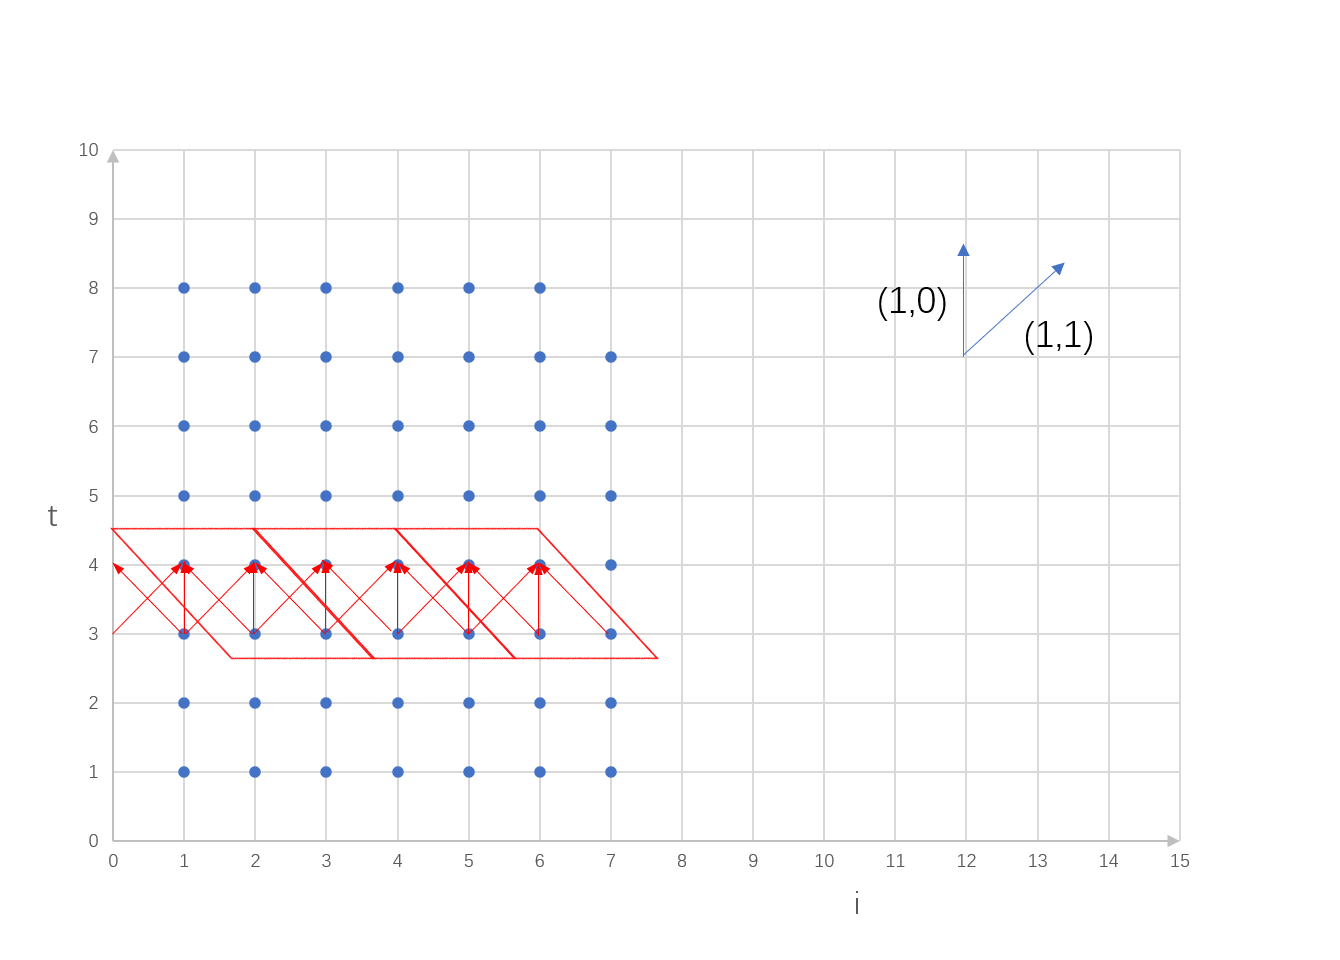
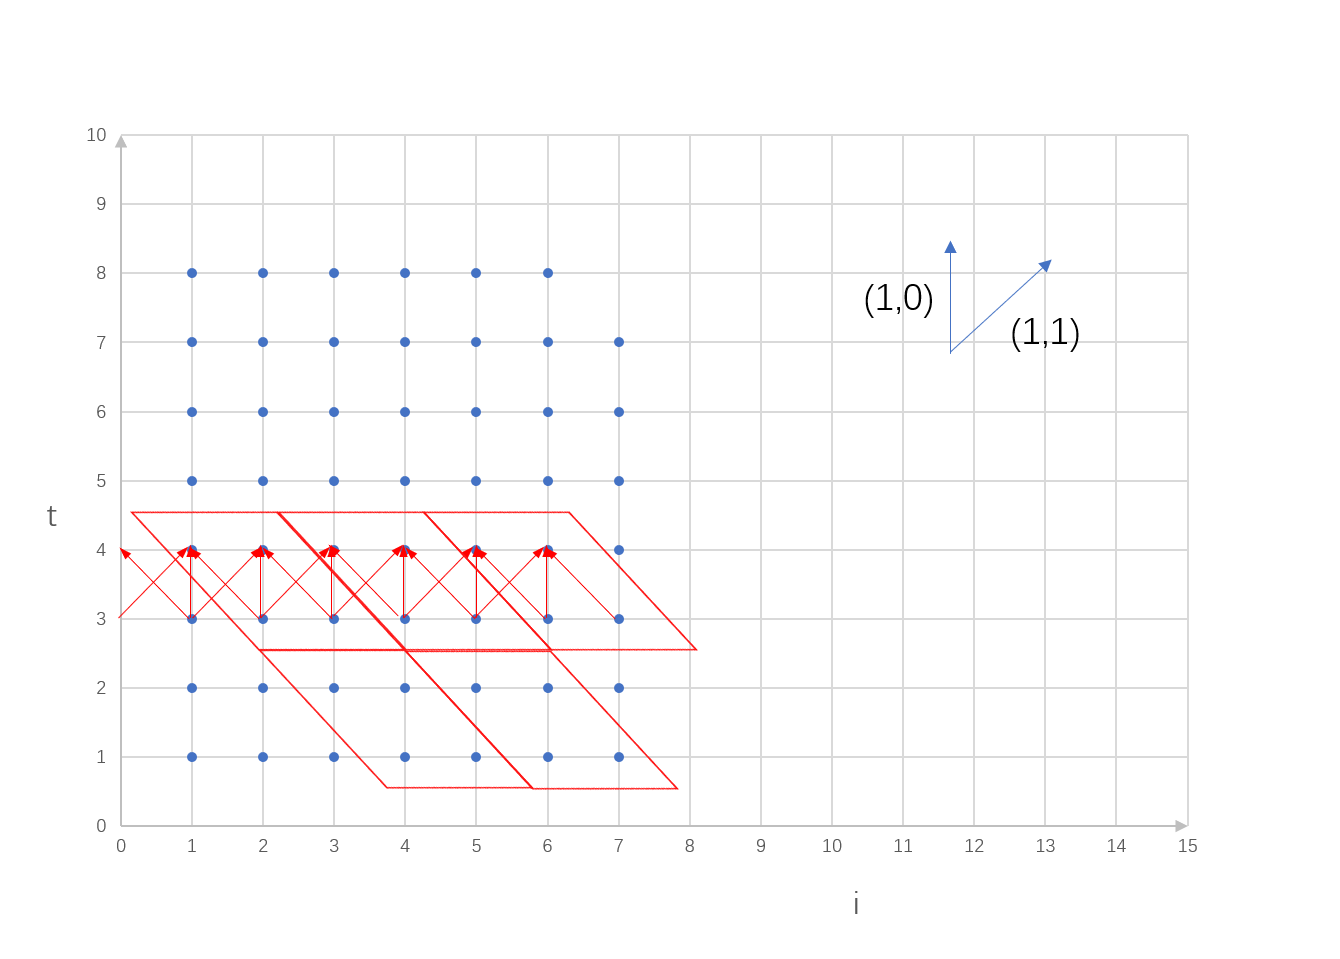
add bounding

diff --git a/slides.md b/slides.md
@@ -456,6 +456,21 @@ delta_e(q) 可以给出分块间通信量的一个近似估计，满足 delta_e(
 
 ---
 
+$$
+v(\bold{n}) = \bold{u}.\bold{n} + w
+$$
+
+使得
+
+$$
+v(\bold{n}) - \delta_e(\bold{q}) = v(\bold{n}) - (\phi_{S_j}(\bold{q}) - \phi_{S_i}(\bold{p})) \ge \bold{0}
+$$
+
+<img src="/bound.png" style="height:65%" class="absolute bottom-10 left-50">
+<img src="/bound.png" style="height:65%" class="absolute bottom-10 left-50">
+
+---
+
 ```c
 for (int i = 1; i <= N; i++) {
   for (int j = 2; j <= N; j++) {
